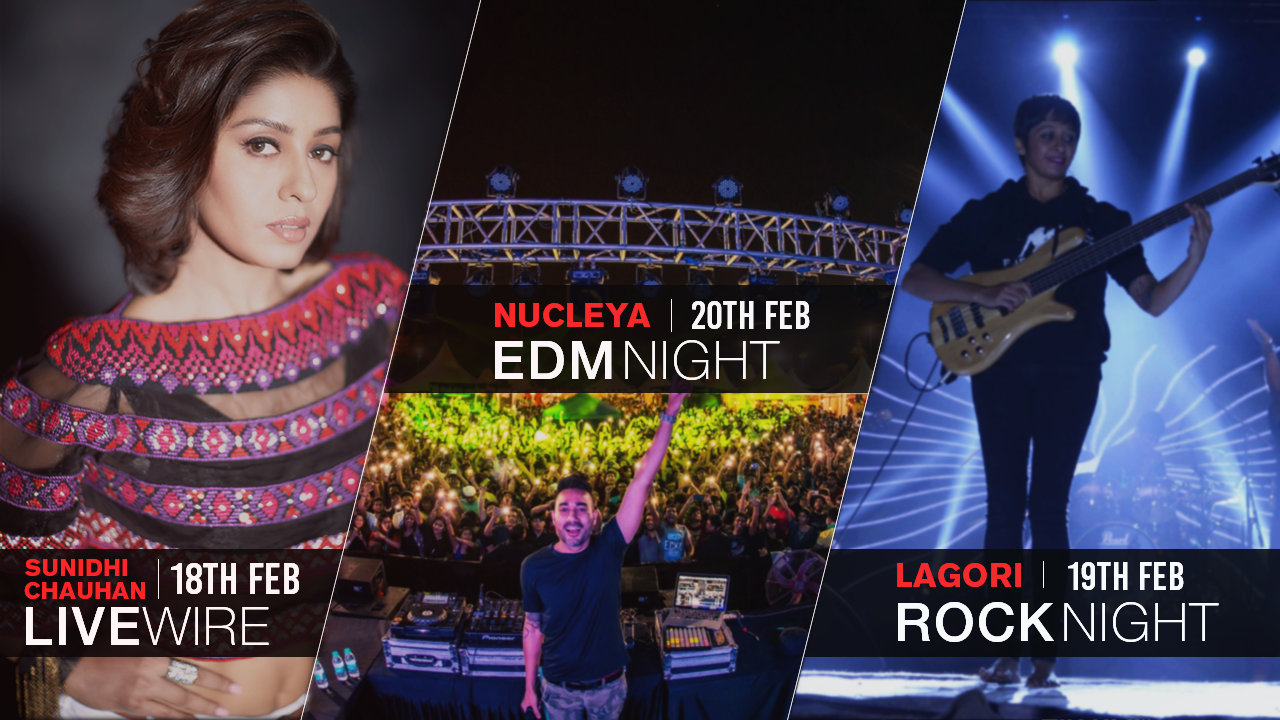
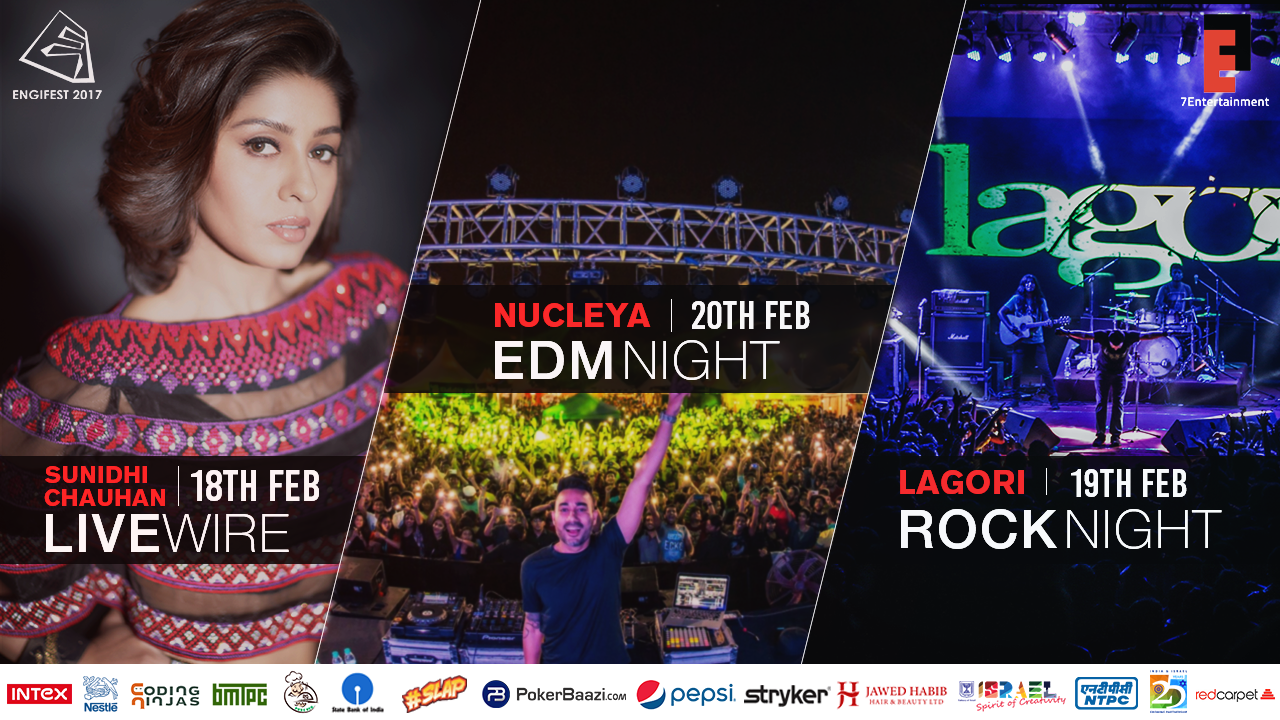
Sponsors added, Pronight poster changed

diff --git a/sponsors.html b/sponsors.html
@@ -57,16 +57,26 @@
                 <div class="sponsor-type"><center>Associate Sponsor</center></div>
                 <div class="sponsor-image"><center><img src="assets/sponsors/ntpc.png"></center></div>
             </div>
-            <div class="flex-item">
-                <div class="sponsor-type"><center>Associate Sponsor</center></div>
-                <div class="sponsor-image"><center><img src="assets/sponsors/intex.jpg"></center>
-                </div>
-            </div>
+            
            <div class="flex-item">
                 <div class="sponsor-type"><center>Associate Sponsor</center></div>
                 <div class="sponsor-image"><center><img src="assets/sponsors/nestle.png" class = "green"></center>
                 </div>
             </div>
+        </div>
+
+        <div class="row flex-container">
+            <div class="flex-item">
+                
+                <div class="sponsor-type"><center>Associate Sponsor</center></div>
+                <div class="sponsor-image"><center><img src="assets/sponsors/pepsi.png" class ="green"></center></div>
+            </div>
+            <div class="flex-item">
+                <div class="sponsor-type"><center>Associate Sponsor</center></div>
+                <div class="sponsor-image"><center><img src="assets/sponsors/intex.jpg"></center>
+                </div>
+            </div>
+           
         </div>  	
 
         
@@ -95,6 +105,22 @@
         </div>
 
         <!-- Students' Association -->
+        <br><br>
+        <div class="row">
+            <div class="row flex-container">
+                <div class="flex-item">
+                    <div class="sponsor-type"><center>Digital Media Partner</center></div><br>
+                        <div class="sponsor-image"><center><img src="assets/sponsors/atkt.png" class = "green"></center>
+                        </div>
+                </div>
+                <div class="flex-item">
+                    <div class="sponsor-type"><center>Styling Partner</center></div><br>
+                       <div class="sponsor-image"><center><img src="assets/sponsors/jawed.jpg" class = "green"></center>
+                        </div>
+                </div>
+                
+            </div>         
+        </div>
         <br><br>
         <div class="row">
             <div class="row flex-container">
@@ -134,6 +160,8 @@
                 
             </div>         
         </div>
+
+
 
 
     </div>
